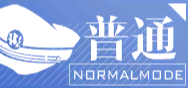
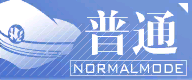
update TW normal button asset and research academy location

diff --git a/modules/research.py b/modules/research.py
@@ -24,6 +24,9 @@ class ResearchModule(object):
             'confirm_tab': Region(1095, 760, 190, 50)
         }
 
+        if (self.config.assets['server'] == 'TW'):
+            self.region['research_academy'] = Region(825, 415, 260, 265)
+
     def research_logic_wrapper(self):
         Logger.log_msg("Found lab alert.")
         Utils.touch_randomly(self.region["lab_tab"])
